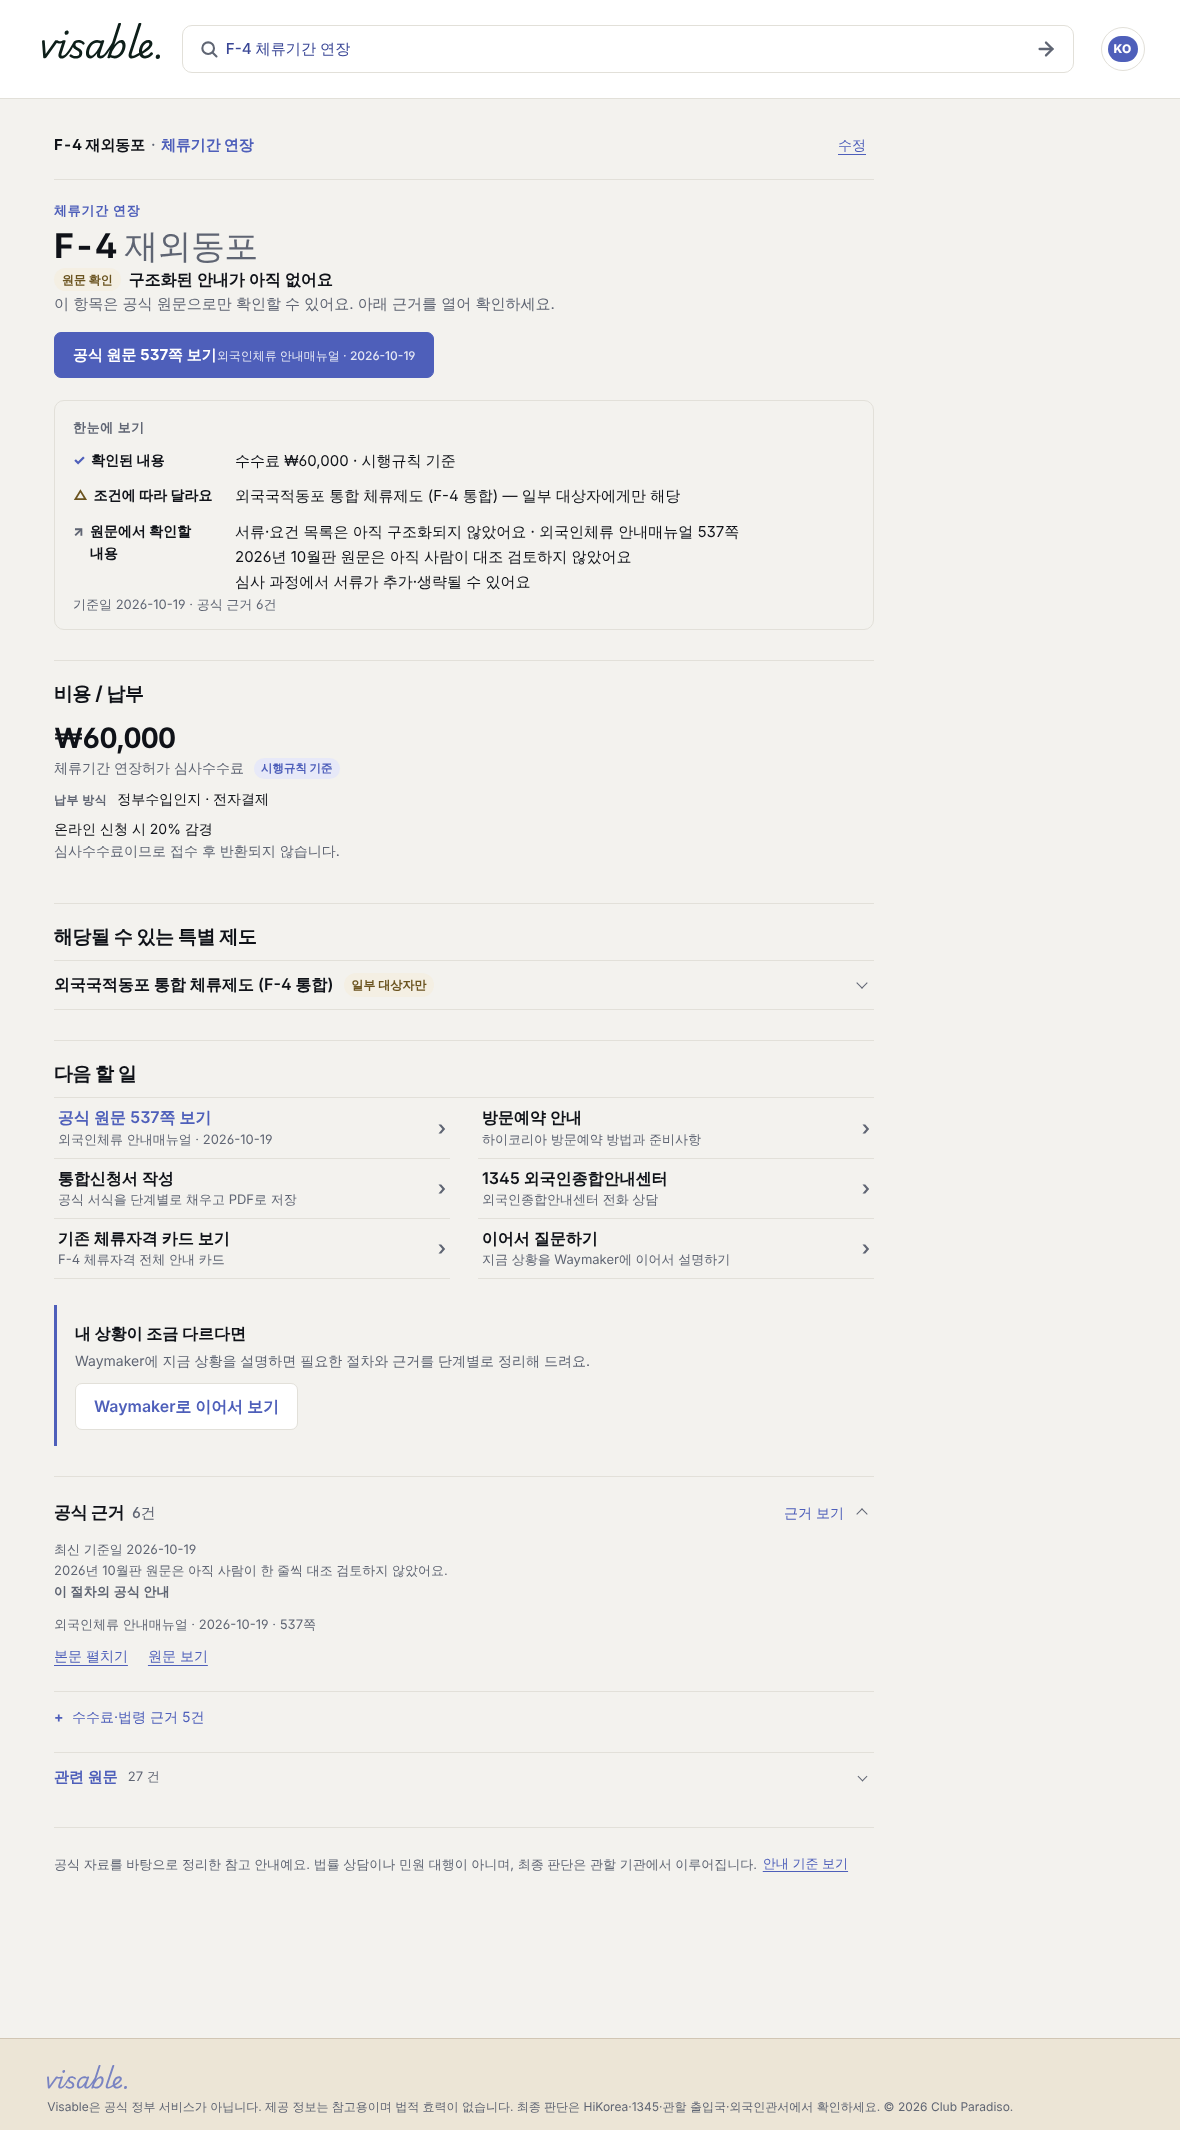
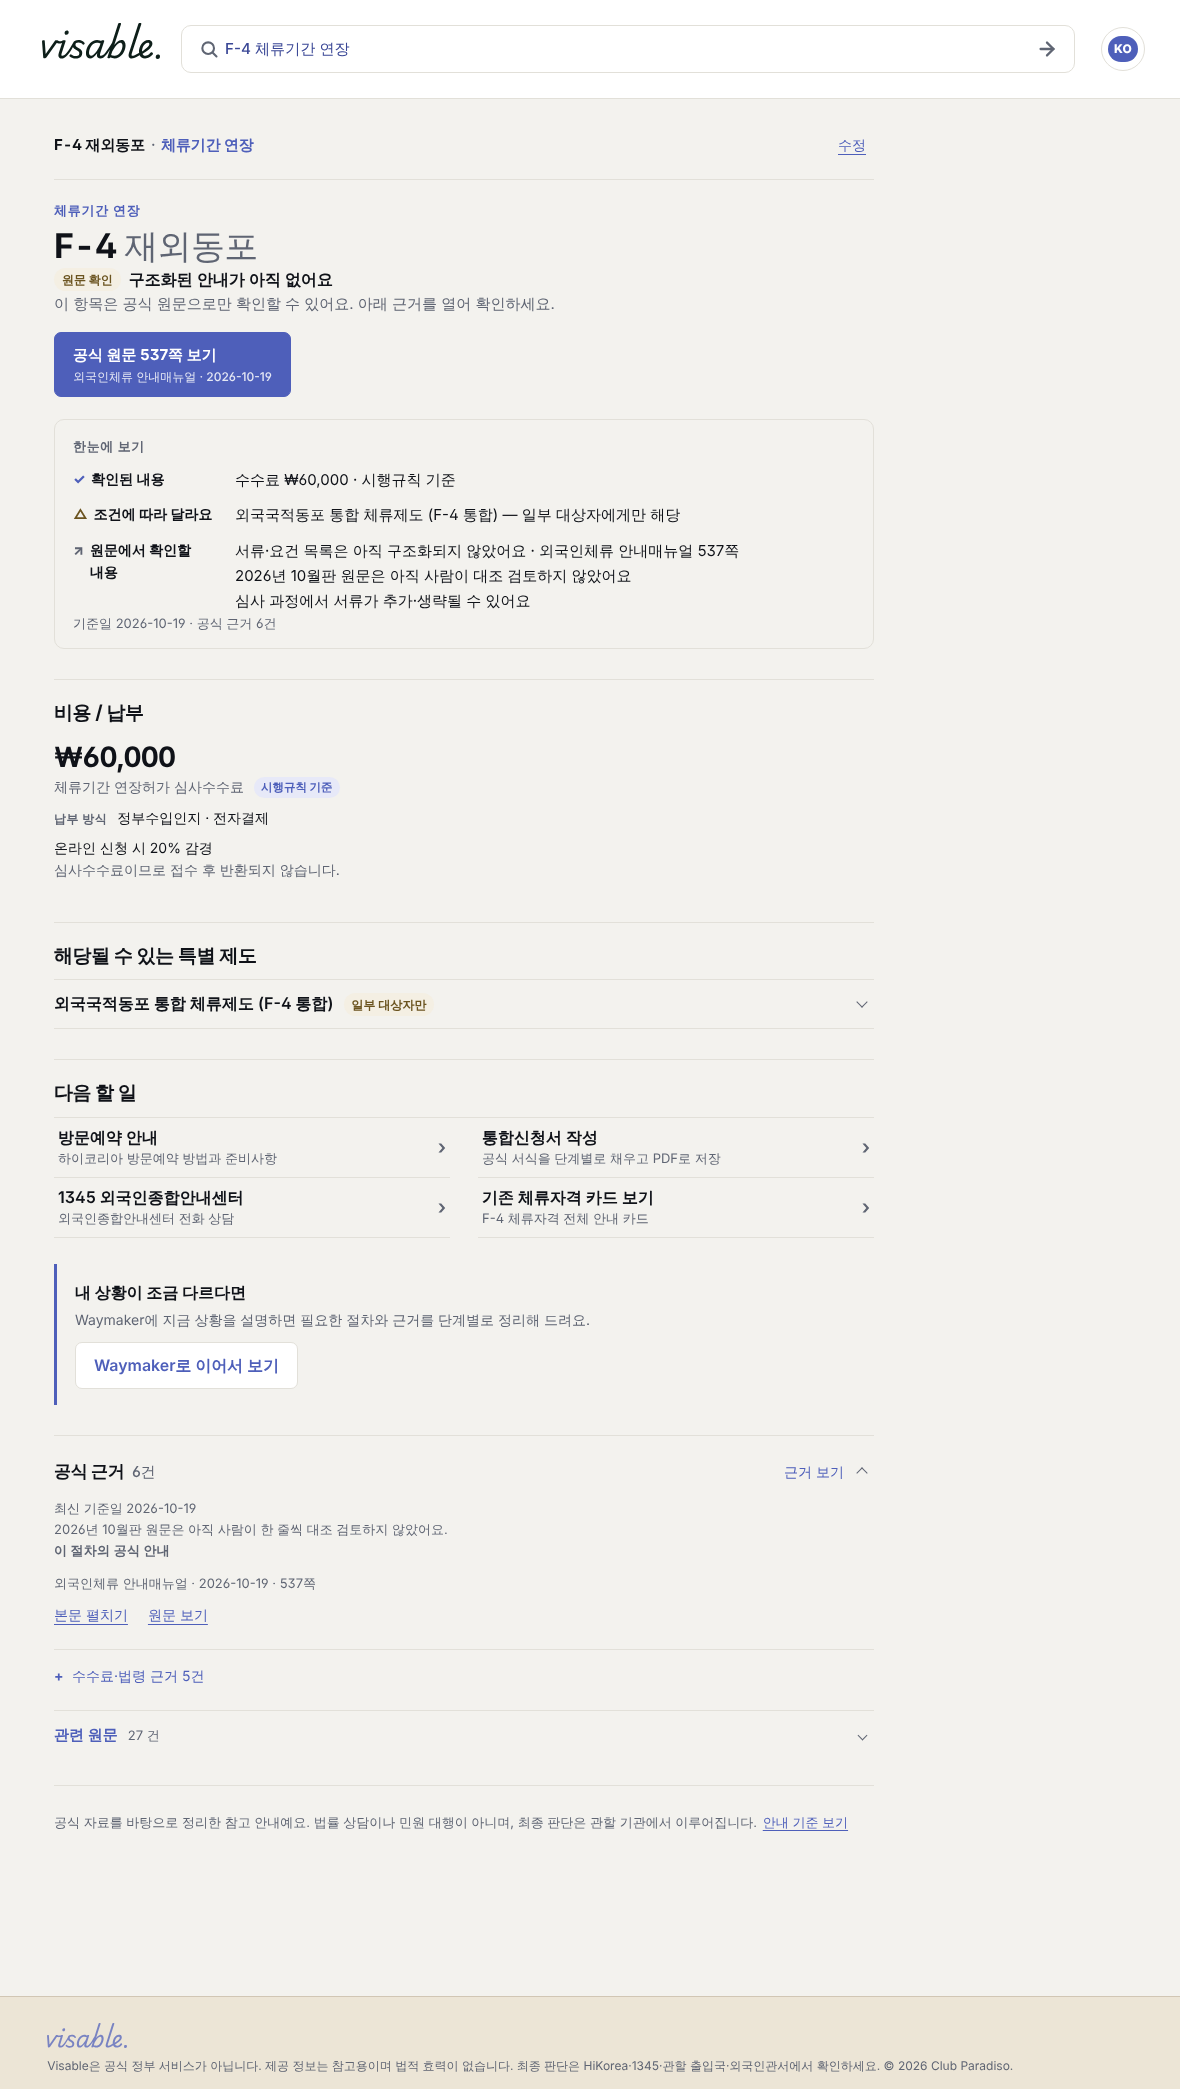
refactor(results): one call to action each; consolidate the next-action CSS; document the skin override
- A source-only answer kept its manual page in the answer head AND as the first
  action row, and offered Waymaker both as a block and as a "follow-up" row. Each
  now appears once: the head keeps the page button, the Waymaker block replaces
  the follow-up row whenever it follows the list (4 rows instead of 6 on F-4).
- The two older .sg-next rule blocks and the phone-only row rules were overridden
  by the action-list block and are removed; the list is styled in one place.
- DESIGN.md notes that an active skin (visable-theme-skins.css) overrides the civic
  colour tokens with !important, so on-screen colours can differ from the listed
  values.
- Checks updated (check_result_hierarchy.mjs, result-hierarchy.spec.mjs); the
  dark-face case now measures text/panel contrast (≥ 4.5:1) on a freshly queried
  node instead of comparing colour strings on a handle that could be detached.
- Audit evidence: search suggestions (phone/iPad), expanded D-2 evidence, dark
  home, the phone header sliding away while reading, refreshed F-4 shots.

Claude-Session: https://claude.ai/code/session_01A2GjLnUizDxWnSFCkYxkWe

diff --git a/assets/css/status-guidance.css b/assets/css/status-guidance.css
@@ -98,13 +98,6 @@ body[data-theme="dark"] .sg-state-exception_only, body[data-theme="dark"] .sg-st
 .sg-rules summary { padding: 10px 0; font-size: 15px; cursor: pointer; min-height: 44px; display: flex; align-items: center; word-break: keep-all; }
 .sg-rules details p { font-size: 14px; line-height: 1.6; padding: 0 0 10px; max-width: 760px; word-break: keep-all; }
 
-/* 6 · next actions */
-.sg-next ul { display: grid; gap: 4px; }
-.sg-next li { min-height: 44px; display: flex; align-items: center; }
-.sg-next a { font-size: 15px; min-height: 44px; display: inline-flex; align-items: center; }
-.sg-next-ai { margin-top: 6px; }
-.sg-next-ai a { color: var(--cs-muted); }
-
 /* 7 · evidence */
 .sg-evidence-list { counter-reset: ev; }
 .sg-evidence-list li { padding: 12px 0; border-bottom: 1px solid var(--cs-line); }
@@ -353,11 +346,6 @@ html[dir="rtl"] .sg:not([dir="ltr"]) .sg-evidence-details > summary::after { mar
 .sg-local-details > summary::after { content: ''; width: 8px; height: 8px; border-right: 1.5px solid var(--cs-muted); border-bottom: 1.5px solid var(--cs-muted); transform: rotate(45deg); margin-left: auto; margin-right: 8px; align-self: center; }
 .sg-local-details[open] > summary::after { transform: rotate(225deg); }
 
-/* H · next actions — one quiet row */
-.sg-next ul { display: flex; flex-wrap: wrap; gap: 0 20px; }
-.sg-next li { min-height: 44px; }
-.sg-next-ai { margin-top: 0; }
-
 /* I · Waymaker resolver (only when the answer needs more context) */
 .sg-wm { margin-top: 26px; padding: 16px 18px; border-left: 3px solid var(--cs-green); background: var(--cs-row); border-radius: 0 8px 8px 0; }
 .sg-wm-title { font-weight: 700; font-size: 16px; }
@@ -391,14 +379,9 @@ html[dir="rtl"] .sg:not([dir="ltr"]) .sg-evidence-details > summary::after { mar
 html[dir="rtl"] .sg:not([dir="ltr"]) .sg-wm { border-left: 0; border-right: 3px solid var(--cs-green); border-radius: 8px 0 0 8px; }
 html .sg[dir="ltr"] { text-align: left; }
 
-/* ---- phones: labels a little larger, next steps as full-width rows a thumb can hit ---- */
+/* ---- phones: labels a little larger ---- */
 @media (max-width: 680px) {
   .sg-facts dt, .sg-doc-meta dt, .sg-quick-grid dt, .sg-fee-k { font-size: 13px; }
-  .sg-next ul { display: grid; gap: 0; border-top: 1px solid var(--cs-line); }
-  .sg-next li { min-height: 0; border-bottom: 1px solid var(--cs-line); }
-  .sg-next li > a, .sg-next li > button { display: flex; width: 100%; min-height: 52px; align-items: center; justify-content: space-between; gap: 12px; text-decoration: none; font-size: 16px; text-align: start; }
-  .sg-next li > a::after, .sg-next li > button::after { content: '›'; font-size: 20px; line-height: 1; color: var(--cs-muted); }
-  html[dir="rtl"] .sg-next li > a::after, html[dir="rtl"] .sg-next li > button::after { content: '‹'; }
 }
 
 /* ===================================================================== */
@@ -439,7 +422,7 @@ body[data-theme="dark"] .sg-ov-conditional dt::before { color: #efdfb1; }
 .sg-program-details > p { font-size: 15px; line-height: 1.65; max-width: 640px; word-break: keep-all; margin-bottom: 10px; }
 .sg-program-details > p.sg-muted { font-size: 13px; }
 
-/* E · actions: one list of labelled rows */
+/* H · next actions: one list of labelled rows (the only .sg-next rules; phones get one column) */
 .sg-next .sg-actions { display: grid; gap: 0; border-top: 1px solid var(--cs-line); }
 .sg-next .sg-actions li { min-height: 0; border-bottom: 1px solid var(--cs-line); display: block; }
 .sg .sg-action, .sg a.sg-action { display: flex; width: 100%; min-height: 56px; align-items: center; justify-content: space-between; gap: 12px; padding: 9px 4px; border: 0; background: none; color: var(--cs-ink); text-decoration: none; text-align: start; font-size: 16px; font-weight: 600; line-height: 1.35; cursor: pointer; border-radius: 6px; }
@@ -451,10 +434,7 @@ body[data-theme="dark"] .sg-ov-conditional dt::before { color: #efdfb1; }
 .sg-action::after { content: '›'; flex: none; font-size: 20px; line-height: 1; color: var(--cs-muted); }
 .sg .sg-action-primary .sg-action { color: var(--cs-green); }
 .sg-action:hover { background: var(--cs-row); }
-.sg-next .sg-next-ai { margin-top: 0; }
-.sg-next .sg-next-ai .sg-action { color: var(--cs-ink); }
-@media (min-width: 681px) { .sg-next .sg-actions { grid-template-columns: 1fr 1fr; gap: 0 28px; } .sg-next .sg-actions li { border-bottom: 1px solid var(--cs-line); } }
-@media (max-width: 680px) { .sg-next li > .sg-action { min-height: 56px; font-size: 16px; } .sg-next li > .sg-action::after { content: '›'; } }
+@media (min-width: 681px) { .sg-next .sg-actions { grid-template-columns: 1fr 1fr; gap: 0 28px; } }
 html[dir="rtl"] .sg:not([dir="ltr"]) .sg-action::after { content: '‹'; }
 
 /* evidence: the procedure's own sources first, fee law behind a disclosure */
@@ -476,5 +456,3 @@ html[dir="rtl"] .sg:not([dir="ltr"]) .sg-action::after { content: '‹'; }
    action list and covers it while reading. It stays available from the legacy
    status card (기존 체류자격 카드 보기); the band shows only once that card is open. */
 .civic-refresh.searched[data-sg-state="ready"]:not([data-legacy-card="open"]) #f4gStickyCta { display: none !important; }
-/* The guidance block keeps LTR order on an RTL page (status-guidance.js sets dir="ltr"), so its row chevrons point forward there too. */
-html[dir="rtl"] .sg[dir="ltr"] .sg-next li > .sg-action::after, html[dir="rtl"] .sg[dir="ltr"] .sg-action::after { content: '›'; }

diff --git a/assets/js/status-guidance.js b/assets/js/status-guidance.js
@@ -1234,29 +1234,30 @@
   function aiHref(model) {
     return 'ai.html?' + (model.status ? 'visa_code=' + encodeURIComponent(model.status) + '&' : '') + (model.procedure ? 'selected_procedure_key=' + encodeURIComponent(model.procedure) + '&' : '') + 'lang=' + model.lang;
   }
-  /* E · next actions: one list of labelled rows (44px+ targets), ordered by what the
-   * query needs. A source-only answer leads with its own manual page; a structured
-   * answer leads with the visit reservation. */
+  // Result kinds whose answer depends on more context: Waymaker is offered as the resolver once, after the actions.
+  var WAYMAKER_RESOLVER_KINDS = { unresolved: true, 'need-status': true, 'no-status': true, 'source-only': true };
+  /* E · next actions: one list of labelled rows (44px+ targets). Each call to action
+   * appears once on the page: a source-only answer carries its manual page in the
+   * answer head (not repeated here), and when the Waymaker resolver block follows
+   * this list the follow-up row is left out. */
   function renderNext(model, step) {
     var lang = model.lang;
     function row(inner, cls) { return '<li' + (cls ? ' class="' + cls + '"' : '') + '>' + inner + '</li>'; }
     function label(key, subKey, vars) { return '<span class="sg-action-body"><span class="sg-action-label">' + esc(tr(lang, key, vars)) + '</span><small>' + esc(tr(lang, subKey, vars)) + '</small></span>'; }
-    var sourceFirst = !!(step && step.kind === 'source-only');
-    var sourceRow = sourceFirst ? sourceButton(model, 'sg-action') : '';
+    var sourceOnly = !!(step && step.kind === 'source-only');
+    var waymakerFollows = !!(step && WAYMAKER_RESOLVER_KINDS[step.kind]);
     return '<section class="sg-next" aria-labelledby="sgNextTitle"><h3 id="sgNextTitle">' + esc(tr(lang, 'nextTitle')) + '</h3><ul class="sg-actions">' +
-      (sourceRow ? row(sourceRow, 'sg-action-primary') : '') +
-      row('<button type="button" class="sg-action" data-action="open-hikorea-guide" data-vcode="' + esc(model.status || '') + '">' + label('nextReserve', 'nextReserveSub') + '</button>', sourceRow ? '' : 'sg-action-primary') +
+      row('<button type="button" class="sg-action" data-action="open-hikorea-guide" data-vcode="' + esc(model.status || '') + '">' + label('nextReserve', 'nextReserveSub') + '</button>', sourceOnly ? '' : 'sg-action-primary') +
       row('<a class="sg-action" href="form-helper.html">' + label('nextForms', 'nextFormsSub') + '</a>') +
       row('<a class="sg-action" href="tel:1345">' + label('nextCall', 'nextCallSub') + '</a>') +
       (model.status ? row('<button type="button" class="sg-action" data-sg-action="legacy-card">' + label('nextLegacy', 'nextLegacySub', { status: model.status }) + '</button>') : '') +
-      row('<a class="sg-action" href="' + esc(aiHref(model)) + '" data-sg-action="followup">' + label('nextAi', 'nextAiSub') + '</a>', 'sg-next-ai') + '</ul></section>';
+      (waymakerFollows ? '' : row('<a class="sg-action" href="' + esc(aiHref(model)) + '" data-sg-action="followup">' + label('nextAi', 'nextAiSub') + '</a>', 'sg-next-ai')) + '</ul></section>';
   }
   /* Waymaker's place on a result page: the structured answer owns the page.
    * Exact results carry only the compact follow-up link in 다음 할 일; when the
    * answer depends on more context (a question, an unresolved subtype, a
    * procedure that needs a status, nothing matched) Waymaker is offered as the
    * resolver, once, right after the answer. The full navigator lives on ai.html. */
-  var WAYMAKER_RESOLVER_KINDS = { unresolved: true, 'need-status': true, 'no-status': true, 'source-only': true };
   function renderWaymaker(model, step) {
     if (!step || !WAYMAKER_RESOLVER_KINDS[step.kind]) return '';
     var lang = model.lang;

diff --git a/audits/prelaunch-rescue-2026-10-24.md b/audits/prelaunch-rescue-2026-10-24.md
@@ -60,7 +60,14 @@ pre-answer; unknown-code reporting (resolver + suggestion note); comparison rout
 exemption scopes (bundle regenerated with `npm run build:status-guidance`); router
 checks extended (+3); catalogue-filter e2e opens the directory first.
 
-Phase 3 (this commit): overview section, conditional scheme disclosure, grouped
+Follow-up (same PR): every call to action appears once — a source-only answer keeps
+its manual page only in the answer head and the Waymaker block replaces the follow-up
+row (4 action rows instead of 6); the superseded `.sg-next` rules (two older blocks and
+the phone-only row rules) were removed so the action list is styled in one place;
+DESIGN.md notes that an active skin overrides the civic colour tokens; the two new
+specs also run on mobile-430 and mobile-360.
+
+Phase 3: overview section, conditional scheme disclosure, grouped
 evidence, action rows, source-first fallback, reading width 820px, edition labels from
 the bundle, landmark/heading fixes, F-4 phone band hidden while the structured answer
 owns the page; `scripts/check_result_hierarchy.mjs` (wired into
@@ -78,6 +85,10 @@ owns the page; `scripts/check_result_hierarchy.mjs` (wired into
 | Unknown code `Z-9 연장`, phone | — | `after-unknown-code-phone-390.png` |
 | F-4, phone, Arabic (RTL page, LTR guidance) | — | `after-f4-extension-phone-390-arabic.png` |
 | F-4, phone, dark face | — | `after-f4-extension-phone-390-dark.png` |
+| F-4, phone, header slides away while reading | — | `after-f4-extension-phone-390-reading.png` |
+| Search suggestions ("F-4 연장"), phone / iPad | — | `after-search-suggestions-phone-390.png`, `after-search-suggestions-ipad-820.png` |
+| D-2, expanded official evidence, desktop | — | `after-d2-evidence-expanded-desktop-1280.png` |
+| Home, phone, dark face | — | `after-home-phone-390-dark.png` |
 
 ## 5. Search QA matrix (router → resolver → renderer, Node)
 
@@ -134,7 +145,7 @@ filtered inside the directory that this branch collapses — the spec now opens 
 | `npm run test:current-manuals` | pass |
 | `npm run test:i18n` | pass |
 | `npm run validate` | steps 1–13 pass; step 14 (`test:enforcement`) errors in this container only because `fastapi` is not installed for the backend unit tests (CI installs `backend/requirements-dev.txt`); after `pip install -r backend/requirements-dev.txt` the three enforcement unit modules run 52 tests, all OK |
-| Playwright: `tools-directory` + `result-hierarchy` (desktop-1280, tablet-768, mobile-390, mobile-320) | 20 + 36 passed |
+| Playwright: `tools-directory` + `result-hierarchy` (desktop-1280, tablet-768, mobile-430, mobile-390, mobile-360, mobile-320) | pass on every project (see PR) |
 | Playwright: `result-hierarchy`, `tools-directory`, `ux10-a11y`, `landing-boot`, `post-search-guidance`, `procedure-first-search`, `waymaker-quick-answer`, `search-result-unification`, `language-control` (desktop-1280 + mobile-390) | 172 passed |
 | Playwright: `search-first-home` + `easy-mode` (desktop-1280 + mobile-390) | 83 passed |
 | axe-core 4.10, 5 pages × 3 viewports | result pages clean; home: 1 minor `aria-allowed-role` (see §6) |

diff --git a/DESIGN.md b/DESIGN.md
@@ -8,6 +8,9 @@ description: >
   (":root:not([data-theme=\"archive_diary\"])", UX-10 Foundations)이며,
   scripts/check_civic_tokens.mjs가 그 값으로 WCAG 대비 하한을 계산한다.
   아래 colors 값은 그 층을 옮겨 적은 것이다. 값이 다르면 index.html이 맞다.
+  단, 사용자가 스킨(Default/Stamp/Chrome/Neon, assets/css/visable-theme-skins.css)을
+  고른 상태에서는 그 스킨의 --vs-* 값이 --cs-*/--vp-* 토큰을 !important로 덮어쓴다.
+  화면에 보이는 색이 아래 값과 다르면 먼저 활성 스킨을 확인할 것(2026-10-24 메모).
 
 colors:
   # 브랜드 (civic layer CSS 변수 → 이 문서 키)
